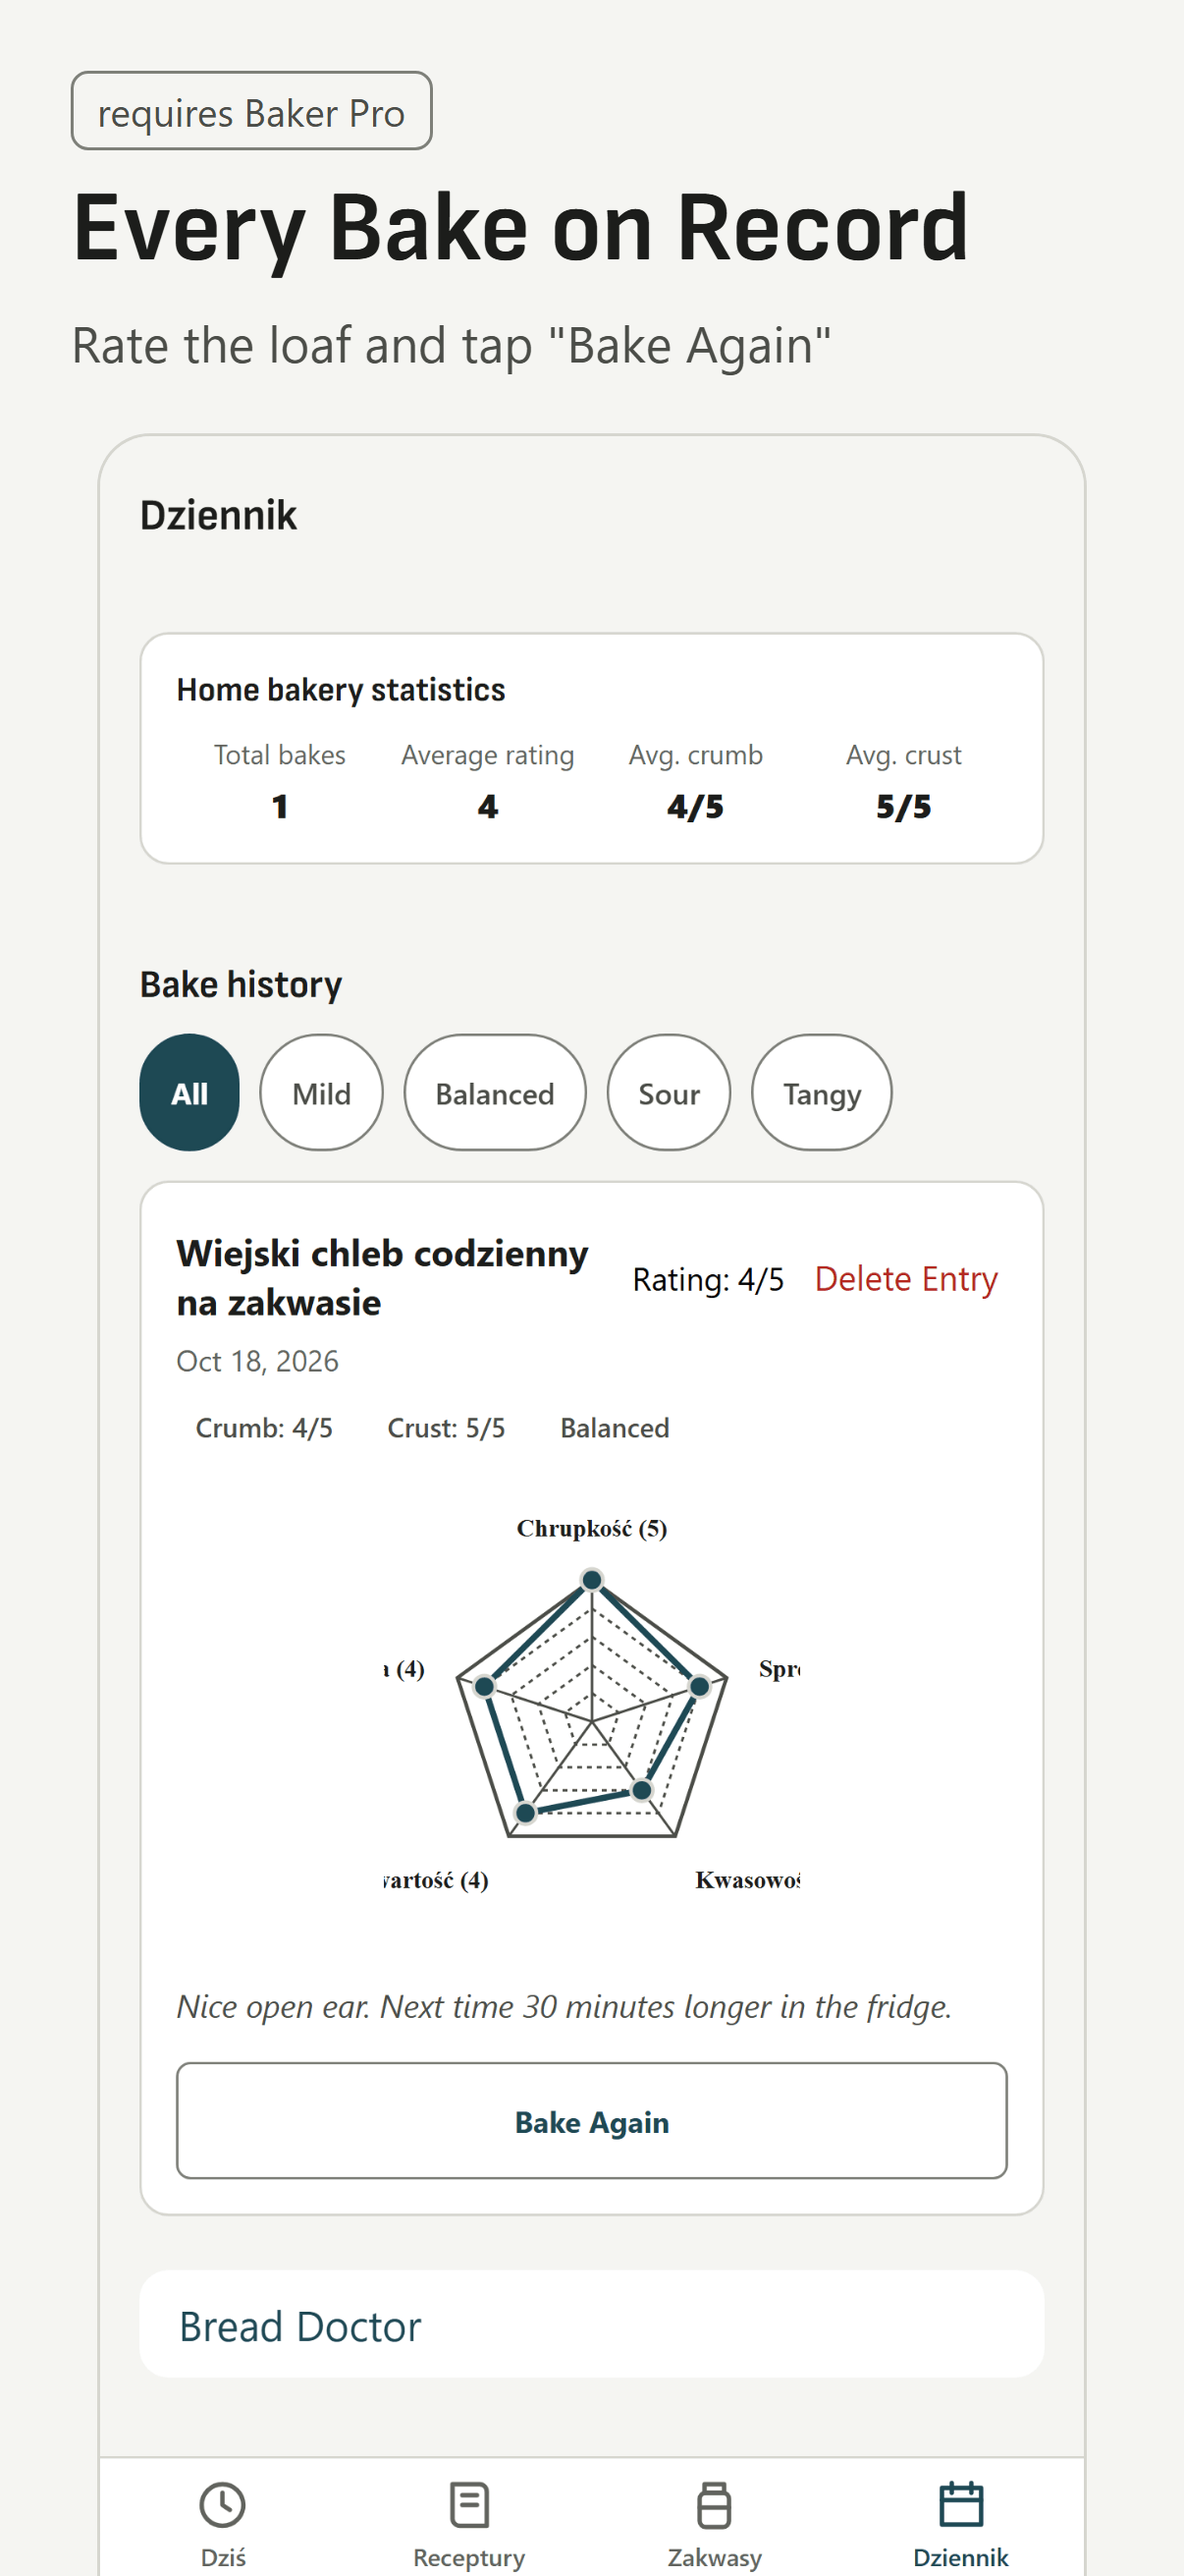
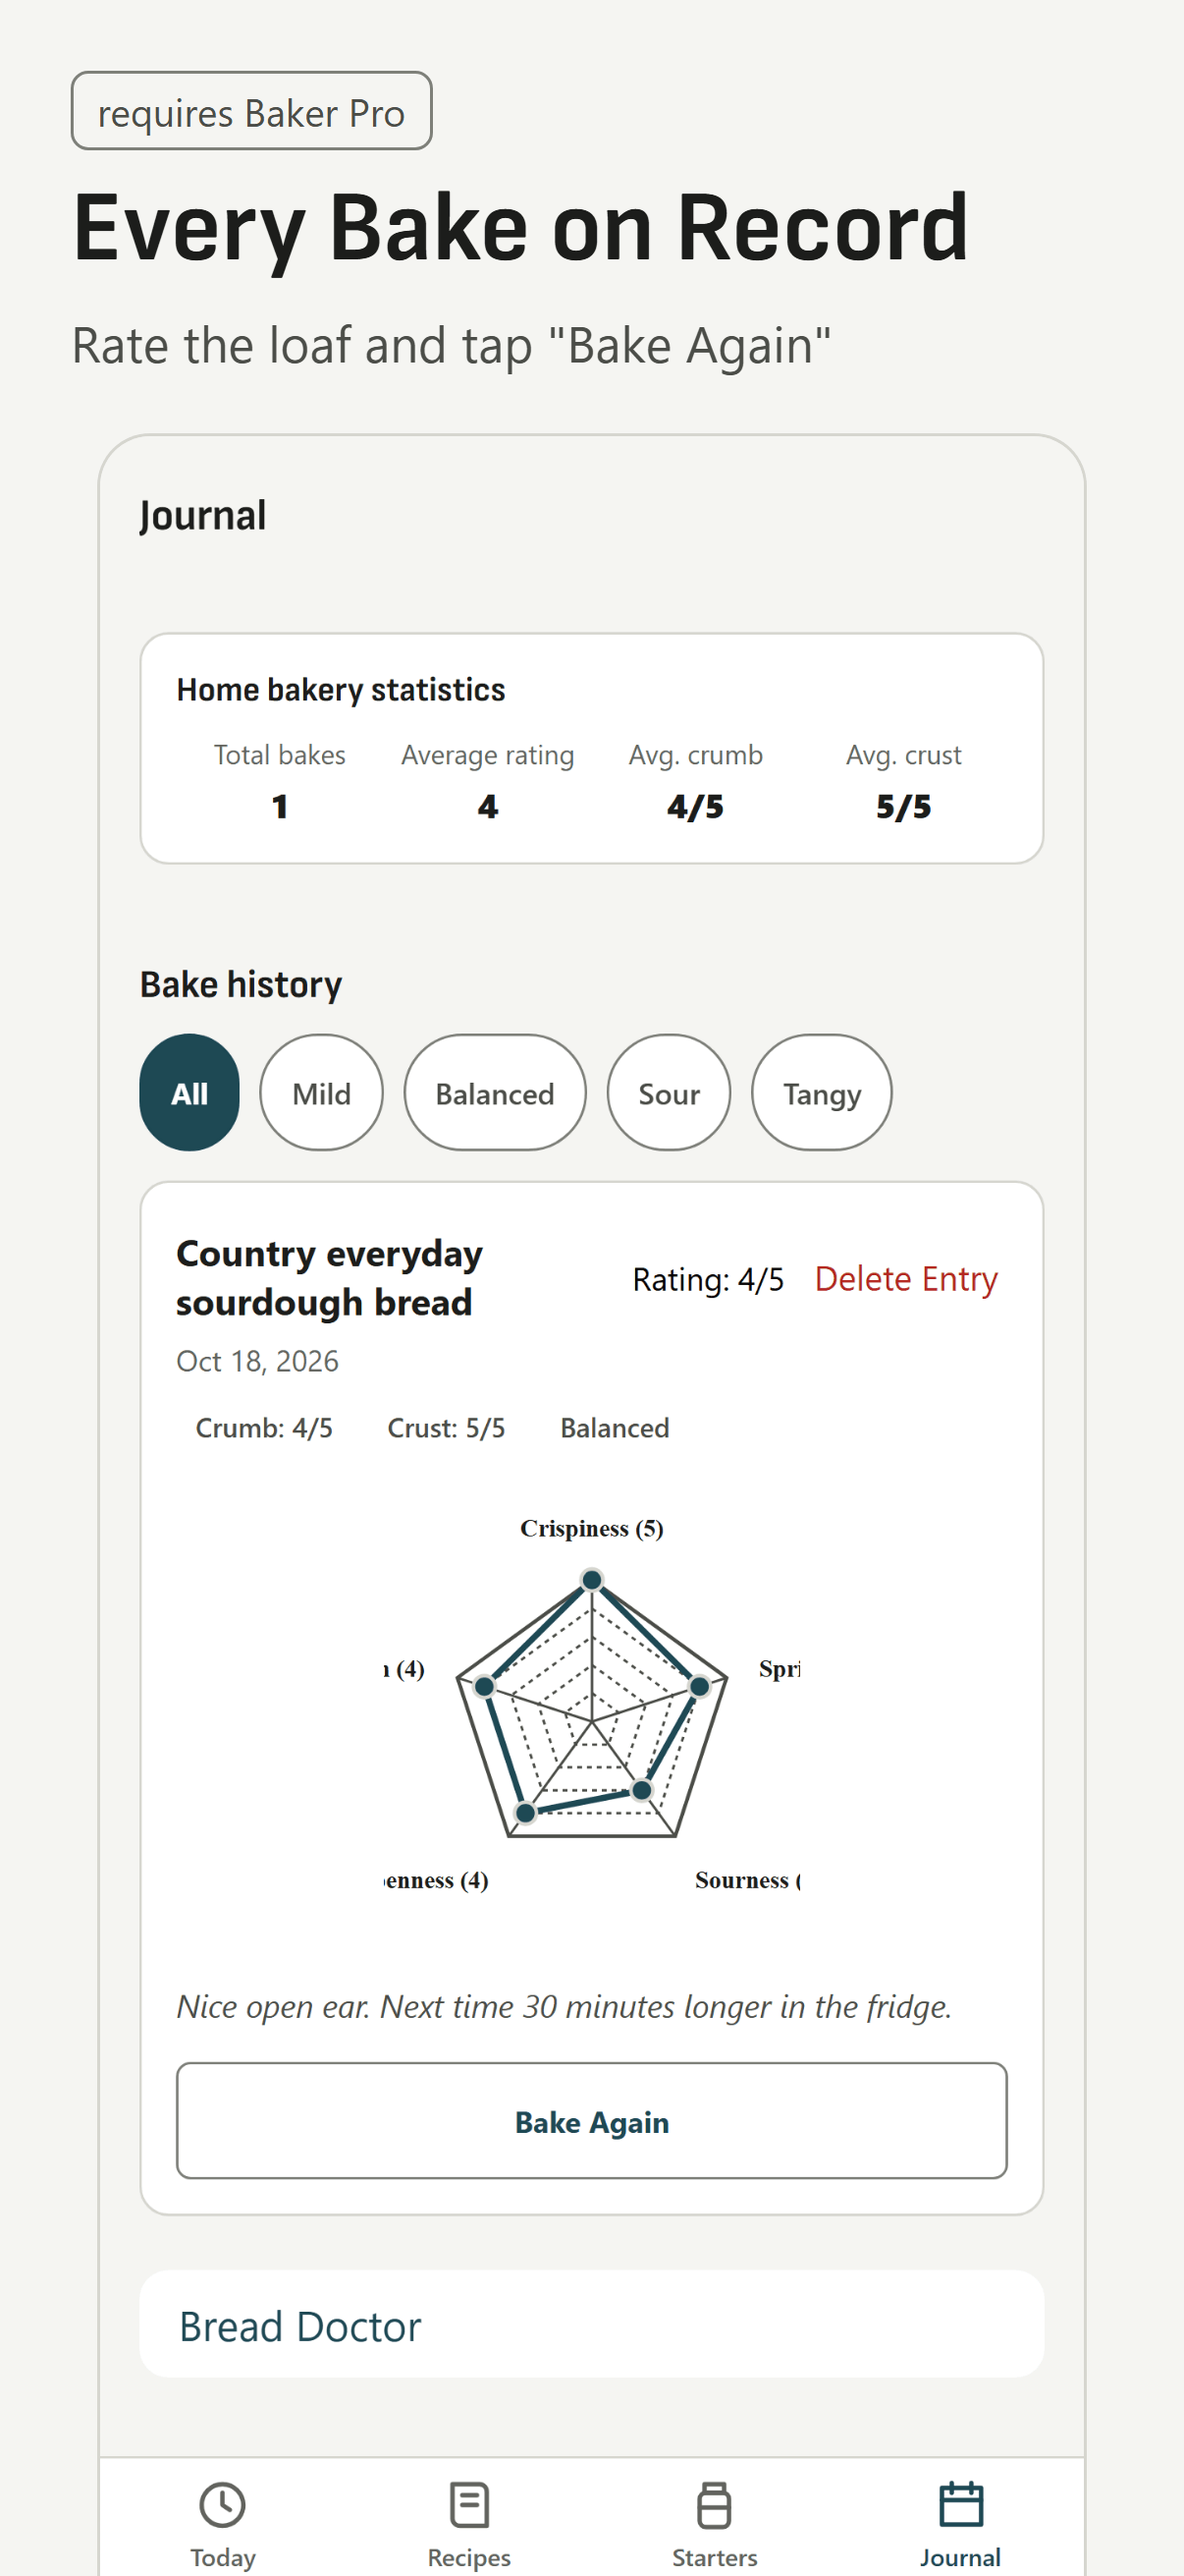
fix(wydanie): zrzuty en-US po Z-3 i nl-NL z podpisami z metadanych lokalizacji, test na 34 lokalizacje [M1-audytor-generalny-080; 10-wydanie-010]
Dlaczego: ramki en-US z czesci 1 (ef67c26) pokazywaly polskie napisy (Z-3),
a po 093/095 podpisy maja jedno zrodlo w docs/wydanie/metadane/<kod>.json,
nie w par. 3 app-store-metadata-v2.md. Zgodnie z decyzja M2 (p7) w repo sa
ramki pl, en-US i nl-NL (najdluzsze podpisy, kontrola uciec); pozostale 31
lokalizacji (41 MiB) generowane tym samym poleceniem poza gitem, w katalogu
audytu M1 (zrzuty-sklepu/), instrukcja w docs/wydanie/zrzuty/README.md.

- tests/zrzuty-sklepu.test.ts: podpisy rowne polom ramki z metadanych
  lokalizacji, katalog nl-NL wymagany, oznaczenie platne = t('wymaga Piekarz
  Pro') w jezyku lokalizacji (mapa kod ASC -> jezyk aplikacji), bez "Crust";
  przed: 4 z 11 czerwonych (brak nl-NL), po: 11/11.
- en-US wygenerowane od nowa z HEAD 531ed78 (po c138158), nl-NL nowe.
- Zmiana danych (dokumentacja i ramki), kod aplikacji bez zmian.

diff --git a/tests/zrzuty-sklepu.test.ts b/tests/zrzuty-sklepu.test.ts
@@ -1,8 +1,10 @@
 /**
  * Zrzuty sklepu App Store [M1-audytor-generalny-080; 10-wydanie-010]: dla każdego języka z `docs/wydanie/zrzuty/<kod ASC>/`
  * i każdej wymaganej klasy iPhone 7 plików PNG w kolejności D-055 (§5.2), wymiary klasy, bez kanału alfa, dokładnie jedna
- * ramka ciemna, podpisy równe §3 `docs/app-store-metadata-v2.md`, oznaczenie funkcji płatnej zgodne ze strażnikiem dostępu
- * w kodzie i brak funkcji spoza kontraktu (OG-05) w podpisach.
+ * ramka ciemna, podpisy równe polom `ramki` z `docs/wydanie/metadane/<kod ASC>.json` (jedno źródło roli 10, 095),
+ * oznaczenie funkcji płatnej zgodne ze strażnikiem dostępu w kodzie i równe `t('wymaga Piekarz Pro')` w języku
+ * lokalizacji, brak funkcji spoza kontraktu (OG-05) i brak „Crust” (D-053) w podpisach.
+ * W repo: pl, en-US i nl-NL (najdłuższe podpisy, pomiar roli 10 w 095); pozostałe 31 lokalizacji poza gitem (decyzja M2, p7).
  *
  * Klasy: App Store Connect Help, „Screenshot specifications” (odczyt 2026-10-20): „iPhone: At least one screenshot for
  * iPhone with Dynamic Island (medium display)” (1206 × 2622 px); klasa Face ID (large display) jest wymagana, gdy nie ma
@@ -16,7 +18,7 @@ import type { Funkcja } from '../src/lib/platnosci/konfiguracja';
 
 const root = path.join(__dirname, '..');
 const KATALOG = path.join(root, 'docs/wydanie/zrzuty');
-const META = fs.readFileSync(path.join(root, 'docs/app-store-metadata-v2.md'), 'utf8').replace(/\r\n/g, '\n');
+const METADANE = path.join(root, 'docs/wydanie/metadane');
 
 const KLASY: Record<string, [number, number]> = { 'iphone-6.9': [1320, 2868], 'iphone-6.3': [1206, 2622] };
 
@@ -31,21 +33,30 @@ const RAMKI: Array<{ plik: string; funkcje: Funkcja[] }> = [
   { plik: '07-offline.png', funkcje: [] },
 ];
 
-/** Kod lokalizacji App Store Connect → język aplikacji i sekcja podpisów §3. */
-const JEZYKI: Record<string, { lang: Lang; sekcja: 'PL' | 'EN' }> = { pl: { lang: 'pl', sekcja: 'PL' }, 'en-US': { lang: 'en', sekcja: 'EN' } };
+/** Kod lokalizacji App Store Connect → język aplikacji (jak `LOKALIZACJE` w scripts/sprawdz-metadane.mjs). */
+const JEZYKI: Record<string, Lang> = {
+  'en-US': 'en', 'en-GB': 'en', 'en-AU': 'en', 'en-CA': 'en',
+  'de-DE': 'de', 'nl-NL': 'nl', 'fr-FR': 'fr', 'fr-CA': 'fr', it: 'it', 'es-ES': 'es', 'es-MX': 'es-419',
+  'pt-BR': 'pt-BR', 'pt-PT': 'pt', pl: 'pl', cs: 'cs', sk: 'sk', hu: 'hu', hr: 'hr', sl: 'sl', ro: 'ro',
+  sv: 'sv', no: 'nb', da: 'da', fi: 'fi', ru: 'ru', uk: 'uk', el: 'el', tr: 'tr', ja: 'ja', ko: 'ko',
+  'zh-Hant': 'zh-Hant', id: 'id', ms: 'ms', vi: 'vi',
+};
+
+/** Ramki w repo (decyzja M2, p7): pl, en-US i nl-NL jako kontrola najdłuższych podpisów. */
+const W_REPO = ['en-US', 'nl-NL', 'pl'];
 
 /** Funkcje spoza kontraktu (OG-05): QR, druk PDF, spiżarnia, przelicznik objętości, masa lodu. */
 const OG05 = /\bQR\b|druk|\bprint|spiżarn|pantry|objętoś|volume|\blód\b|\blodu\b|\bice\b/i;
 
-function podpisyS3(sekcja: 'PL' | 'EN') {
-  const s3 = META.split('\n## 3. ')[1].split('\n## 4. ')[0];
-  return [1, 2, 3, 4, 5, 6, 7].map((nr) => {
-    const blok = s3.split(`### Ramka ${nr}:`)[1].split('\n### ')[0];
-    const pole = (re: RegExp) => blok.match(re)?.[1];
-    return sekcja === 'PL'
-      ? { naglowek: pole(/\*\*Główny nagłówek \(PL\):\*\* \*(.+?)\*$/m), podtytul: pole(/\*\*Podtytuł \(PL\):\*\* \*(.+?)\*$/m) }
-      : { naglowek: pole(/\*\*Main Headline \(EN\):\*\* \*(.+?)\*$/m), podtytul: pole(/\*\*Sub-headline \(EN\):\*\* \*(.+?)\*$/m) };
-  });
+/** Podpisy 7 ramek z metadanych lokalizacji (`docs/wydanie/metadane/<kod>.json`, pole `ramki`). */
+function podpisyMetadanych(kod: string): Array<{ naglowek: unknown; podtytul: unknown }> {
+  const dane: unknown = JSON.parse(fs.readFileSync(path.join(METADANE, `${kod}.json`), 'utf8'));
+  const ramki: unknown = typeof dane === 'object' && dane !== null ? Reflect.get(dane, 'ramki') : null;
+  const lista: unknown[] = Array.isArray(ramki) ? ramki : [];
+  return lista.map((r) => ({
+    naglowek: typeof r === 'object' && r !== null ? Reflect.get(r, 'naglowek') : undefined,
+    podtytul: typeof r === 'object' && r !== null ? Reflect.get(r, 'podtytul') : undefined,
+  }));
 }
 
 /** Nagłówek IHDR: szerokość, wysokość, typ koloru (4 i 6 = z kanałem alfa). */
@@ -63,12 +74,15 @@ const jezyki = fs.existsSync(KATALOG)
 afterAll(() => setLang('pl'));
 
 describe('zrzuty sklepu App Store (080)', () => {
-  it('są katalogi języków wydania pl i en-US', () => {
-    expect(jezyki).toEqual(expect.arrayContaining(['en-US', 'pl']));
-    for (const j of jezyki) expect(Object.keys(JEZYKI)).toContain(j);
+  it('są katalogi lokalizacji w repo: pl, en-US i nl-NL (najdłuższe podpisy); każdy katalog to lokalizacja z metadanych', () => {
+    expect(jezyki).toEqual(expect.arrayContaining(W_REPO));
+    for (const j of jezyki) {
+      expect(Object.keys(JEZYKI)).toContain(j);
+      expect(fs.existsSync(path.join(METADANE, `${j}.json`))).toBe(true);
+    }
   });
 
-  describe.each(jezyki.length ? jezyki : ['pl', 'en-US'])('%s', (jezyk) => {
+  describe.each([...new Set([...jezyki, ...W_REPO])].sort())('%s', (jezyk) => {
     const dir = path.join(KATALOG, jezyk);
 
     it.each(Object.keys(KLASY))('klasa %s: 7 PNG w kolejności §5.2, wymiary klasy, bez alfy, jedna ramka ciemna', (klasa) => {
@@ -82,17 +96,18 @@ describe('zrzuty sklepu App Store (080)', () => {
       }
     });
 
-    it('podpisy.json: podpis każdej ramki równy §3, oznaczenie funkcji płatnej według strażnika dostępu, bez OG-05', () => {
+    it('podpisy.json: podpis każdej ramki równy metadanym lokalizacji, oznaczenie płatne według strażnika w języku lokalizacji, bez OG-05 i „Crust”', () => {
       const plik = path.join(dir, 'podpisy.json');
       expect(fs.existsSync(plik)).toBe(true);
-      const dane: unknown = JSON.parse(fs.readFileSync(plik, 'utf8'));
+      const dane: unknown = fs.existsSync(plik) ? JSON.parse(fs.readFileSync(plik, 'utf8')) : null;
       const ramki: unknown = typeof dane === 'object' && dane !== null ? Reflect.get(dane, 'ramki') : null;
       expect(Array.isArray(ramki)).toBe(true);
       const lista = Array.isArray(ramki) ? ramki : [];
-      const { lang, sekcja } = JEZYKI[jezyk];
-      const s3 = podpisyS3(sekcja);
-      setLang(lang);
+      const s3 = podpisyMetadanych(jezyk);
+      expect(s3).toHaveLength(7);
+      setLang(JEZYKI[jezyk]);
       const pro = t('wymaga Piekarz Pro');
+      if (JEZYKI[jezyk] !== 'pl') expect(pro).not.toBe('wymaga Piekarz Pro');
       expect(lista).toHaveLength(7);
       RAMKI.forEach((r, i) => {
         const x: unknown = lista[i];
@@ -105,6 +120,7 @@ describe('zrzuty sklepu App Store (080)', () => {
           oznaczenie: platna ? pro : null,
         });
         expect(`${s3[i].naglowek} ${s3[i].podtytul}`).not.toMatch(OG05);
+        expect(`${s3[i].naglowek} ${s3[i].podtytul} ${platna ? pro : ''}`).not.toMatch(/\bCrust\b/);
       });
     });
   });

diff --git a/docs/wydanie/zrzuty/README.md b/docs/wydanie/zrzuty/README.md
@@ -1,6 +1,6 @@
 # Zrzuty App Store (zadanie 080)
 
-Katalog `<kod lokalizacji App Store Connect>/<klasa>/` ma 7 ramek w kolejności D-055 (`docs/app-store-metadata-v2.md` §5.2), a `<kod>/podpisy.json` ma podpisy z §3 i oznaczenie funkcji płatnej. Pilnuje tego test `tests/zrzuty-sklepu.test.ts`.
+Katalog `<kod lokalizacji App Store Connect>/<klasa>/` ma 7 ramek w kolejności D-055 (`docs/app-store-metadata-v2.md` §5.2), a `<kod>/podpisy.json` ma podpisy z `docs/wydanie/metadane/<kod>.json` (pole `ramki`) i oznaczenie funkcji płatnej w języku lokalizacji (`t('wymaga Piekarz Pro')`). Pilnuje tego test `tests/zrzuty-sklepu.test.ts`.
 
 Klasy iPhone (App Store Connect Help, „Screenshot specifications”, odczyt 2026-10-20):
 
@@ -11,15 +11,20 @@ Klasy iPhone (App Store Connect Help, „Screenshot specifications”, odczyt 20
 
 iPad: nie dotyczy (`app.json`: `supportsTablet: false`).
 
+## Gdzie leżą
+
+- W repo: `pl`, `en-US` i `nl-NL` (nl-NL ma najdłuższe podpisy, kontrola ucięć).
+- Pozostałe 31 lokalizacji z `docs/wydanie/metadane/` (ok. 40 MB) są poza gitem, w katalogu audytu M1: `audit/M1-2026-10-19/M1-2026-10-19/zrzuty-sklepu/<kod>/{iphone-6.9,iphone-6.3}/` (decyzja M2, partia 7). Generuje je to samo polecenie, a sprawdza `sprawdz-k.mjs` (wymiary, 7 plików na klasę, brak kanału alfa, podpisy równe metadanym).
+
 ## Jak powstają
 
-Ramki to eksport web aplikacji (Expo web) z podkładkami modułów natywnych, zrzucony Playwrightem i złożony z pasem podpisu w tokenach `docs/design/`. Playwright i podkładki nie należą do zależności repo, więc skrypt `generuj.mjs` leży poza repo, przy raporcie zadania 080 (`role/10-wydanie/fix-2026-10-20-p7-080/narzedzia/` w katalogu audytu M1). Kroki:
+Ramki to eksport web aplikacji (Expo web) z podkładkami modułów natywnych, zrzucony Playwrightem i złożony z pasem podpisu w tokenach `docs/design/`. Playwright i podkładki nie należą do zależności repo, więc skrypty leżą poza repo, przy raporcie zadania 080 część 2 (`role/10-wydanie/fix-2026-10-21-p7-080b/narzedzia/` w katalogu audytu M1: `generuj.mjs`, `serwer.mjs`, `sprawdz-k.mjs`, `podkladki/`, `metro.config.zrzuty.js`). Kroki:
 
-1. Skopiuj `narzedzia/metro.config.zrzuty.js` jako `metro.config.js` w katalogu repo (plik jest poza gitem w `.git/info/exclude`).
-2. Zrób dwa eksporty z HEAD: `MOTYW_ZRZUT=jasny npx expo export -p web --output-dir <tmp>/web --clear` i to samo z `MOTYW_ZRZUT=ciemny` do `<tmp>/web-ciemny`.
-3. W katalogu z `generuj.mjs`, po `npm install` (instaluje tylko Playwright), uruchom dla każdego języka: `node generuj.mjs --jezyk <kod> --repo <repo> --web <tmp>/web --web-ciemny <tmp>/web-ciemny`.
-4. Przywróć `metro.config.js` i uruchom `npx jest tests/zrzuty-sklepu.test.ts`.
+1. Zrób kopię swojego `metro.config.js` i skopiuj na jego miejsce `narzedzia/metro.config.zrzuty.js` (plik jest poza gitem w `.git/info/exclude`).
+2. Zrób dwa eksporty z HEAD: `MOTYW_ZRZUT=jasny npx expo export -p web --output-dir <tmp>/web --clear` i to samo z `MOTYW_ZRZUT=ciemny` do `<tmp>/web-ciemny`. Potem przywróć `metro.config.js` z kopii.
+3. Skopiuj `generuj.mjs` i `serwer.mjs` do katalogu roboczego z Playwrightem (`npm install playwright@1.64.1`) i uruchom dla każdej lokalizacji: `node generuj.mjs --jezyk <kod ASC> --repo <repo> --web <tmp>/web --web-ciemny <tmp>/web-ciemny`. Wynik trafia do `docs/wydanie/zrzuty/<kod>/` dla pl, en-US i nl-NL, a dla pozostałych do katalogu K (inny katalog: `--wyjscie <katalog>`). Jedna lokalizacja trwa ok. 5 min; kilka można uruchomić naraz.
+4. Uruchom `npx jest tests/zrzuty-sklepu.test.ts` i `node sprawdz-k.mjs`.
 
-Nowy język po przekładzie (093) wymaga trzech rzeczy: podpisów tego języka w §3, wpisu w tabeli `J` w `generuj.mjs` (locale, etykiety przycisków, nazwy danych przykładowych) i wpisu w `JEZYKI` w teście.
+Podpisy biorą się z metadanych lokalizacji. Etykiety przycisków, które klika skrypt, i tekst oznaczenia płatnego pochodzą ze słowników aplikacji (`src/lib/i18n-slowniki/`, `src/lib/i18n-en/`), a godzina z `Intl` przeglądarki. Nowa lokalizacja wymaga więc tylko pliku metadanych, wpisu w tabelach `LOK` i `DANE` w `generuj.mjs` (locale przeglądarki, przykładowa nazwa zakwasu i notatka) oraz w `JEZYKI` w teście.
 
-Render web różni się od iOS: nie ma paska stanu, tekst treści ma krój systemowy Windows zamiast SF Pro, a cienie i przewijanie wyglądają inaczej. Przed wysyłką do App Store Connect właściciel ogląda ramki na telefonie.
+Render web różni się od iOS: nie ma paska stanu, tekst treści ma krój systemowy Windows zamiast SF Pro, a cienie i przewijanie wyglądają inaczej. Dla japońskiego, koreańskiego i chińskiego (tradycyjnego) ramka używa kroju zastępczego Windows (Yu Gothic, Malgun Gothic, Microsoft JhengHei), bo Sofia Sans nie ma tych pism. Przed wysyłką do App Store Connect właściciel ogląda ramki na telefonie.
